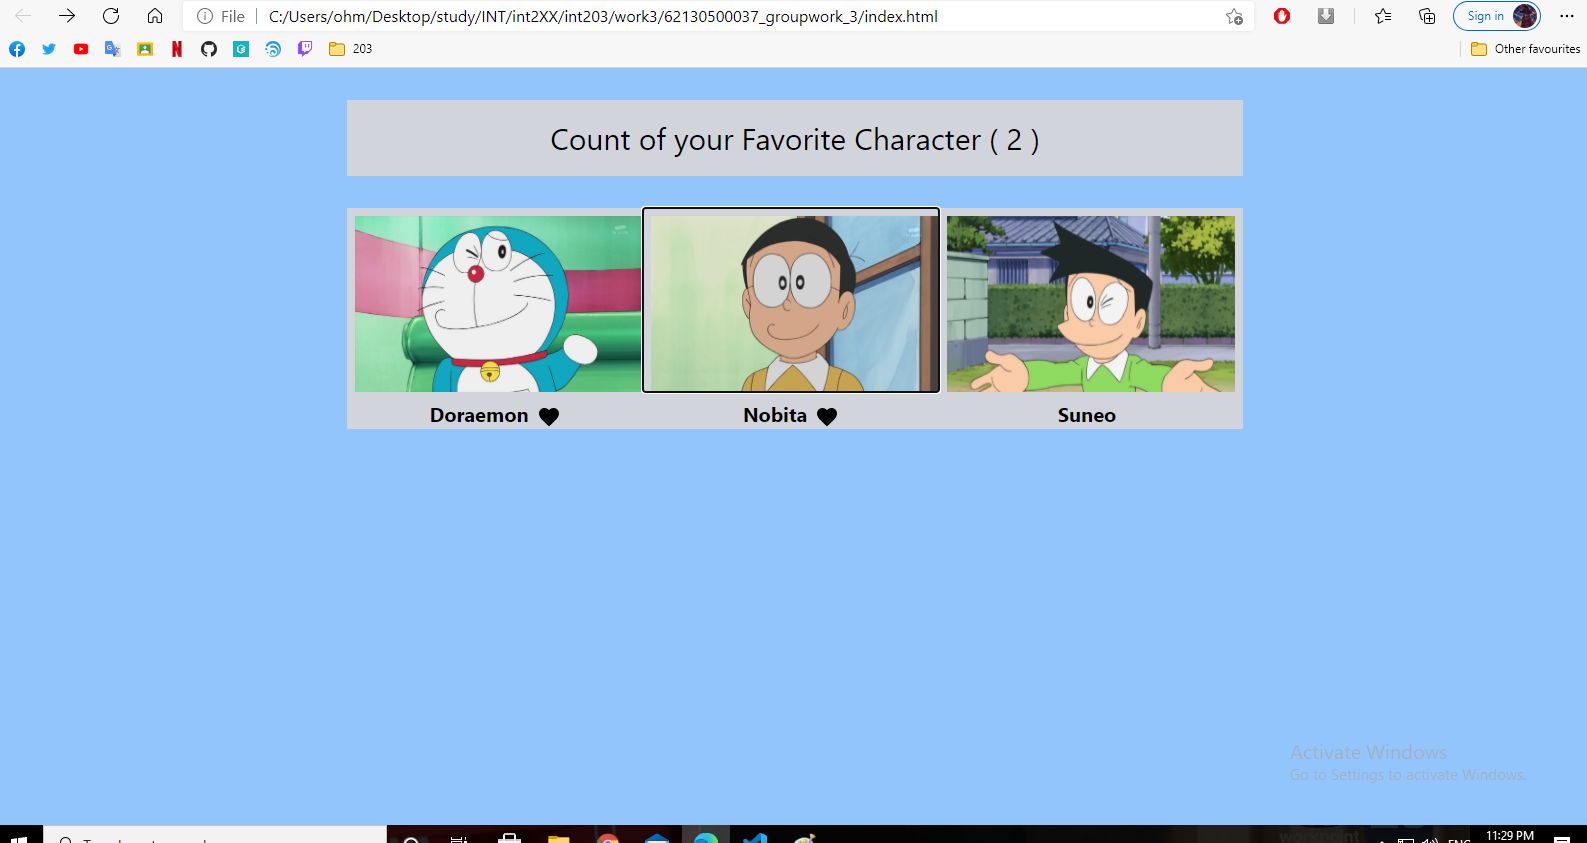
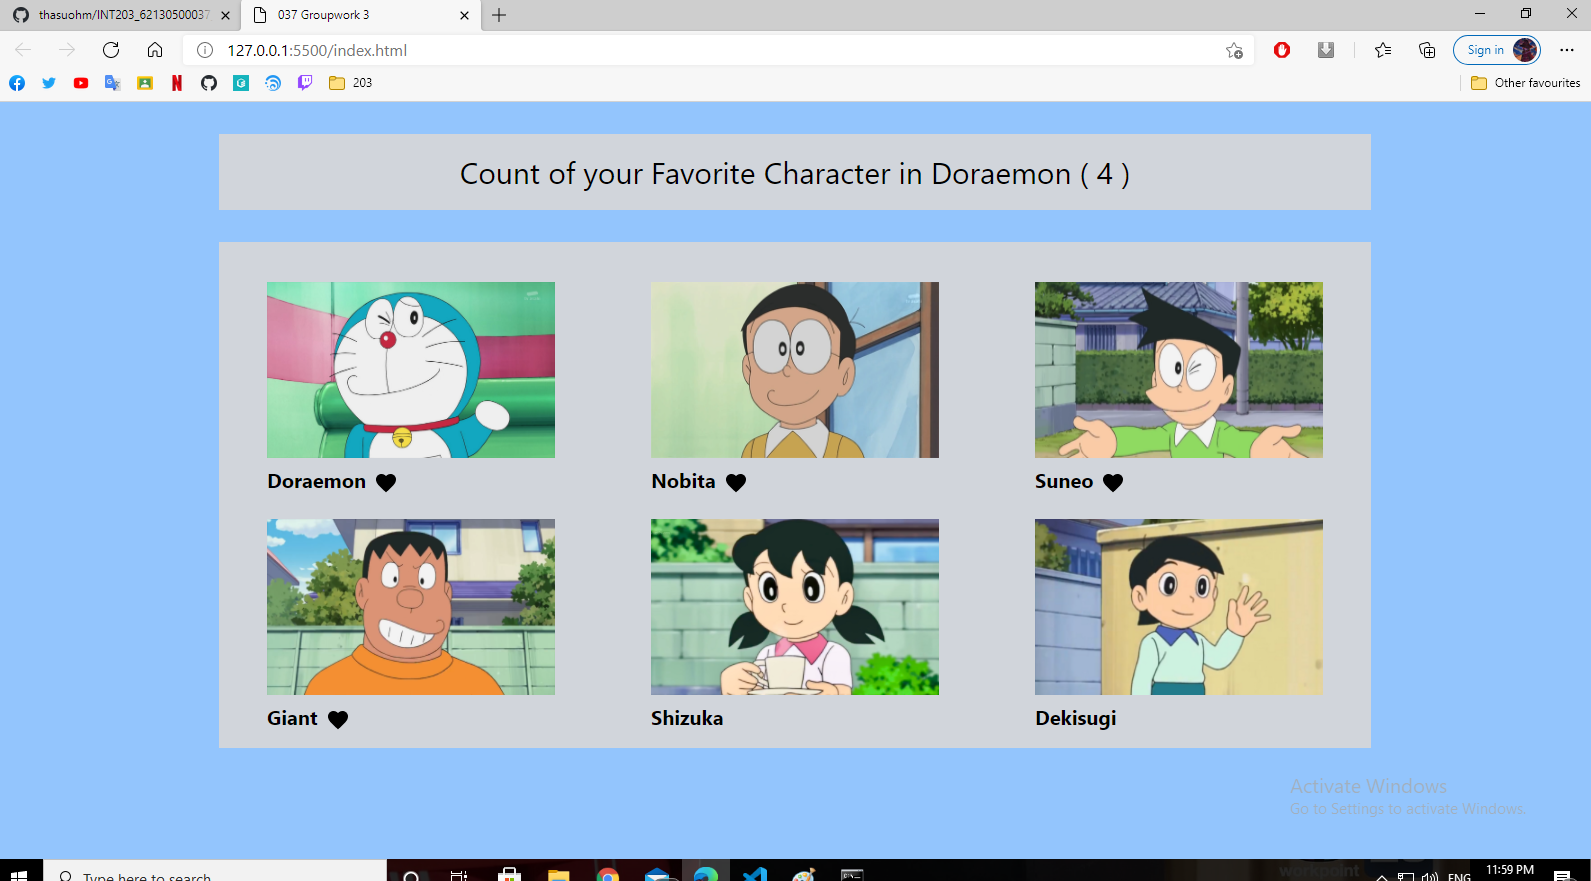
update layout

diff --git a/62130500037_groupwork_3/index.html b/62130500037_groupwork_3/index.html
@@ -22,26 +22,24 @@
 
 <body class = "bg-blue-300">
  
-  <div id="app" class = 'text-center max-w-4xl mx-auto '>
-    <h1 class="text-3xl text-center mt-8 bg-gray-300 p-5">Count of your Favorite Character ( {{ countLike }} )</h1>
+  <div id="app" class = ' max-w-6xl mx-auto '>
+    <h1 class="text-3xl text-center mt-8 bg-gray-300 p-5">Count of your Favorite Character in Doraemon ( {{ countLike }} )</h1>
 
-    
-    <ul class ="mt-8 flex bg-gray-300" >
+    <div class = "">
+    <ul class ="mt-8 pt-8  bg-gray-300 grid grid-cols-3 justify-items-center" > 
+      
+      
       <li v-for="(image,index) in gallery">
-
-     
-      <button v-on:click="favorite(index)">
-      <img :src = "image.images" class = "w-72 h-44 ml-2 mt-2 inline">
+      <button v-on:click="favorite(index)" class = "">
+      <img :src = "image.images" class = "w-72 h-44  mt-2 inline">
       </button>
-      
-      
-      <h1 class="mt-2 text-xl"><b>{{image.name}}</b><span v-show="image.fav">
-      <img class = "inline ml-2" :src = "favicon"></span></h1> 
-    
-    
+   
+      <h1 class="mt-2 mb-4 text-xl "><b>{{image.name}}</b><span v-show="image.fav">
+      <img class = "inline ml-2 " :src = "favicon"></span></h1> 
     </li>
+
     </ul>
-  
+  </div>
 </div>
   <!-- my main.js -->
   <script src="./main.js"></script>

diff --git a/62130500037_groupwork_3/main.js b/62130500037_groupwork_3/main.js
@@ -4,7 +4,10 @@ const app = {
             gallery: [
                 {images: 'images/doraemon.png',name : 'Doraemon',fav: false},
                 {images: 'images/nobita.png', name : 'Nobita',fav: false},
-                {images: 'images/suneo.png',name : 'Suneo', fav: false}
+                {images: 'images/suneo.png',name : 'Suneo', fav: false},
+                {images: 'images/giant.png', name : 'Giant',fav: false},
+                {images: 'images/shizuka.jpg', name : 'Shizuka',fav: false},
+                {images: 'images/dekisugi.jpg', name : 'Dekisugi',fav: false},
                 ]
            ,favicon: 'images/favorite.svg'
         }
